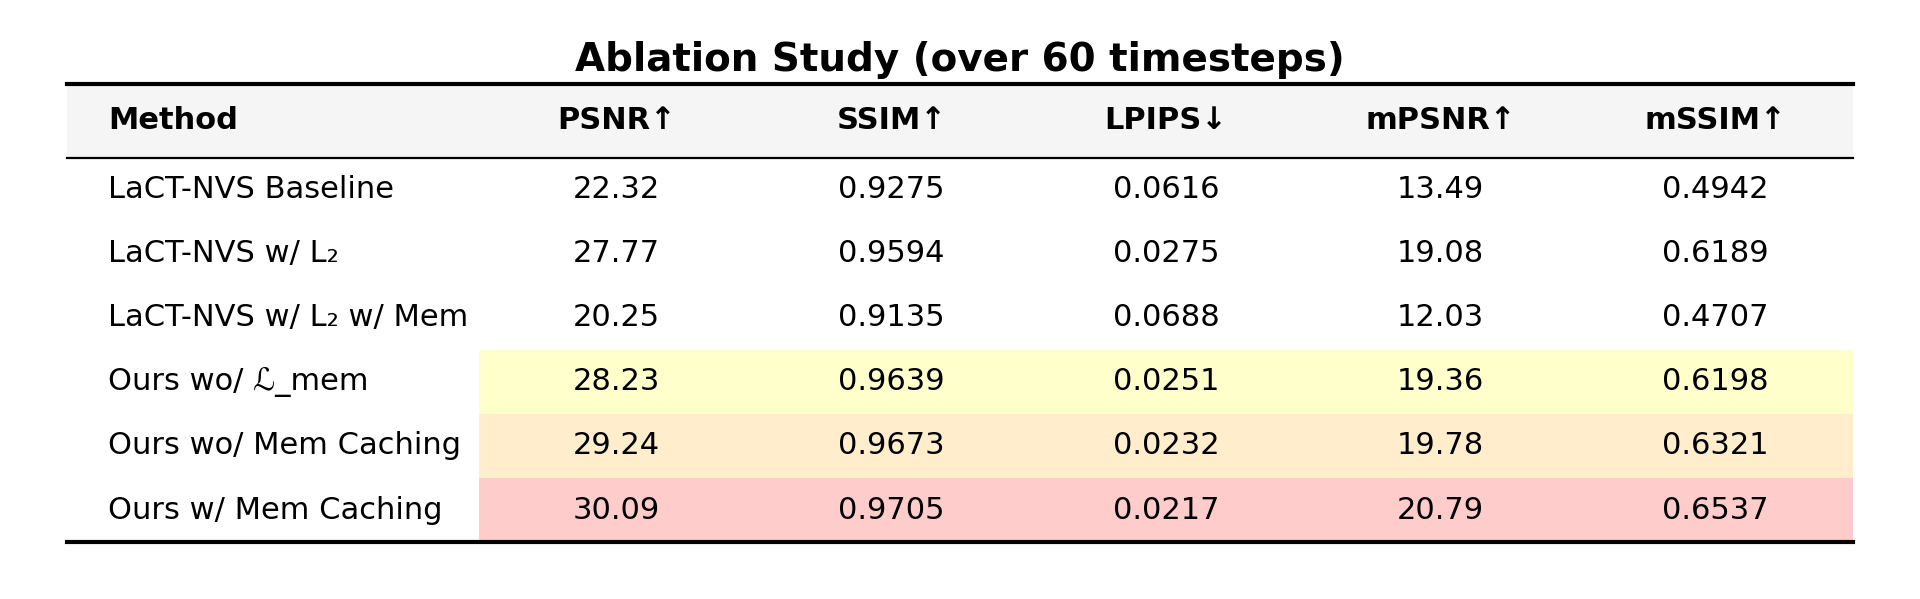
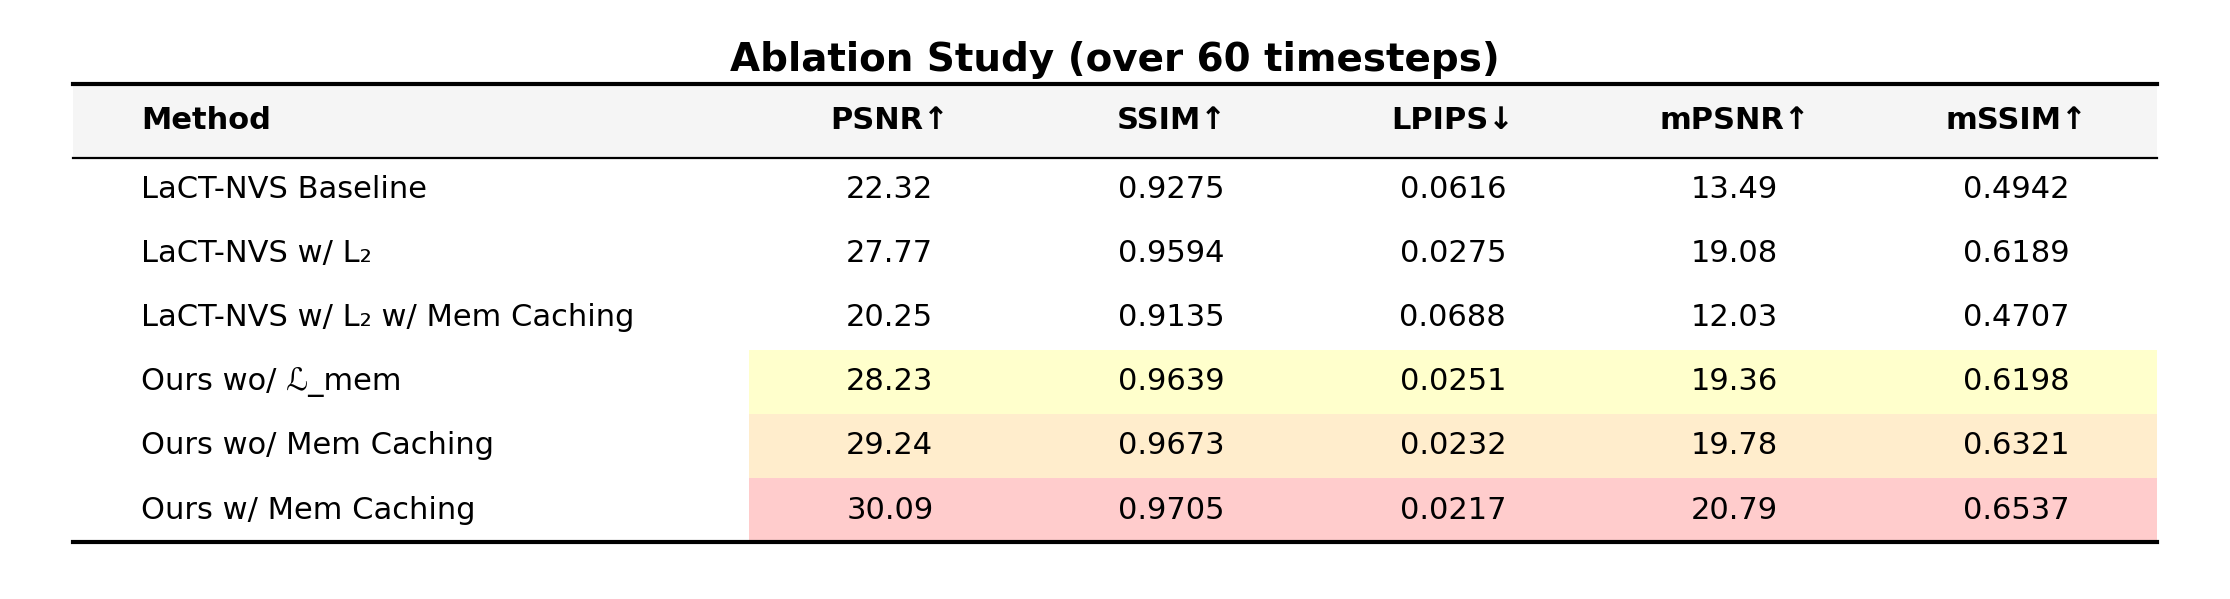
Remove stale paper markdown; fix ablation table label clipping
- Remove resources/nstm_main_paper.md (stale ECCV-era full-paper dump);
  repoint AGENTS.md and docs/design_guidelines.md to resources/main_paper.pdf
- render_tables.py: widen ablation method column (0.25->0.40, figsize 14)
  so "LaCT-NVS w/ L₂ w/ Mem Caching" is no longer truncated; re-render

diff --git a/resources/render_tables.py b/resources/render_tables.py
@@ -47,7 +47,7 @@ def render_ablation_table():
         [WHITE, BEST_COLOR, BEST_COLOR, BEST_COLOR, BEST_COLOR, BEST_COLOR],
     ]
 
-    fig, ax = plt.subplots(figsize=(12, 3.5))
+    fig, ax = plt.subplots(figsize=(14, 3.5))
     ax.axis('off')
     ax.set_xlim(0, 1)
     ax.set_ylim(0, 1)
@@ -80,10 +80,10 @@ def render_ablation_table():
             cell.set_height(0.15)
         else:
             cell.set_height(0.13)
-        if col == 0:  # Method names left-aligned and wider
+        if col == 0:  # Method names left-aligned and wider (fits "LaCT-NVS w/ L₂ w/ Mem Caching")
             cell.set_text_props(ha='left')
             cell._loc = 'left'
-            cell.set_width(0.25)
+            cell.set_width(0.40)
 
     # Second pass: add booktabs rules by drawing lines at cell boundaries
     # Get table bbox in axes coordinates

diff --git a/AGENTS.md b/AGENTS.md
@@ -1,7 +1,7 @@
 # AGENTS.md — NSTM Project Website
 
 > **What is this?** Developer documentation for the Neural Space-Time Memory supplementary website.
-> For paper content and details, see [`resources/nstm_main_paper.md`](resources/nstm_main_paper.md).
+> For paper content and details, see [`resources/main_paper.pdf`](resources/main_paper.pdf).
 > For visual direction, see [`docs/design_guidelines.md`](docs/design_guidelines.md).
 
 ---

diff --git a/docs/design_guidelines.md b/docs/design_guidelines.md
@@ -1,7 +1,7 @@
 # NSTM Website — Design Guidelines
 
 High-level visual direction for the Neural Space-Time Memory project page.
-For paper details, see [`resources/nstm_main_paper.md`](resources/nstm_main_paper.md).
+For paper details, see [`resources/main_paper.pdf`](resources/main_paper.pdf).
 
 ---
 
